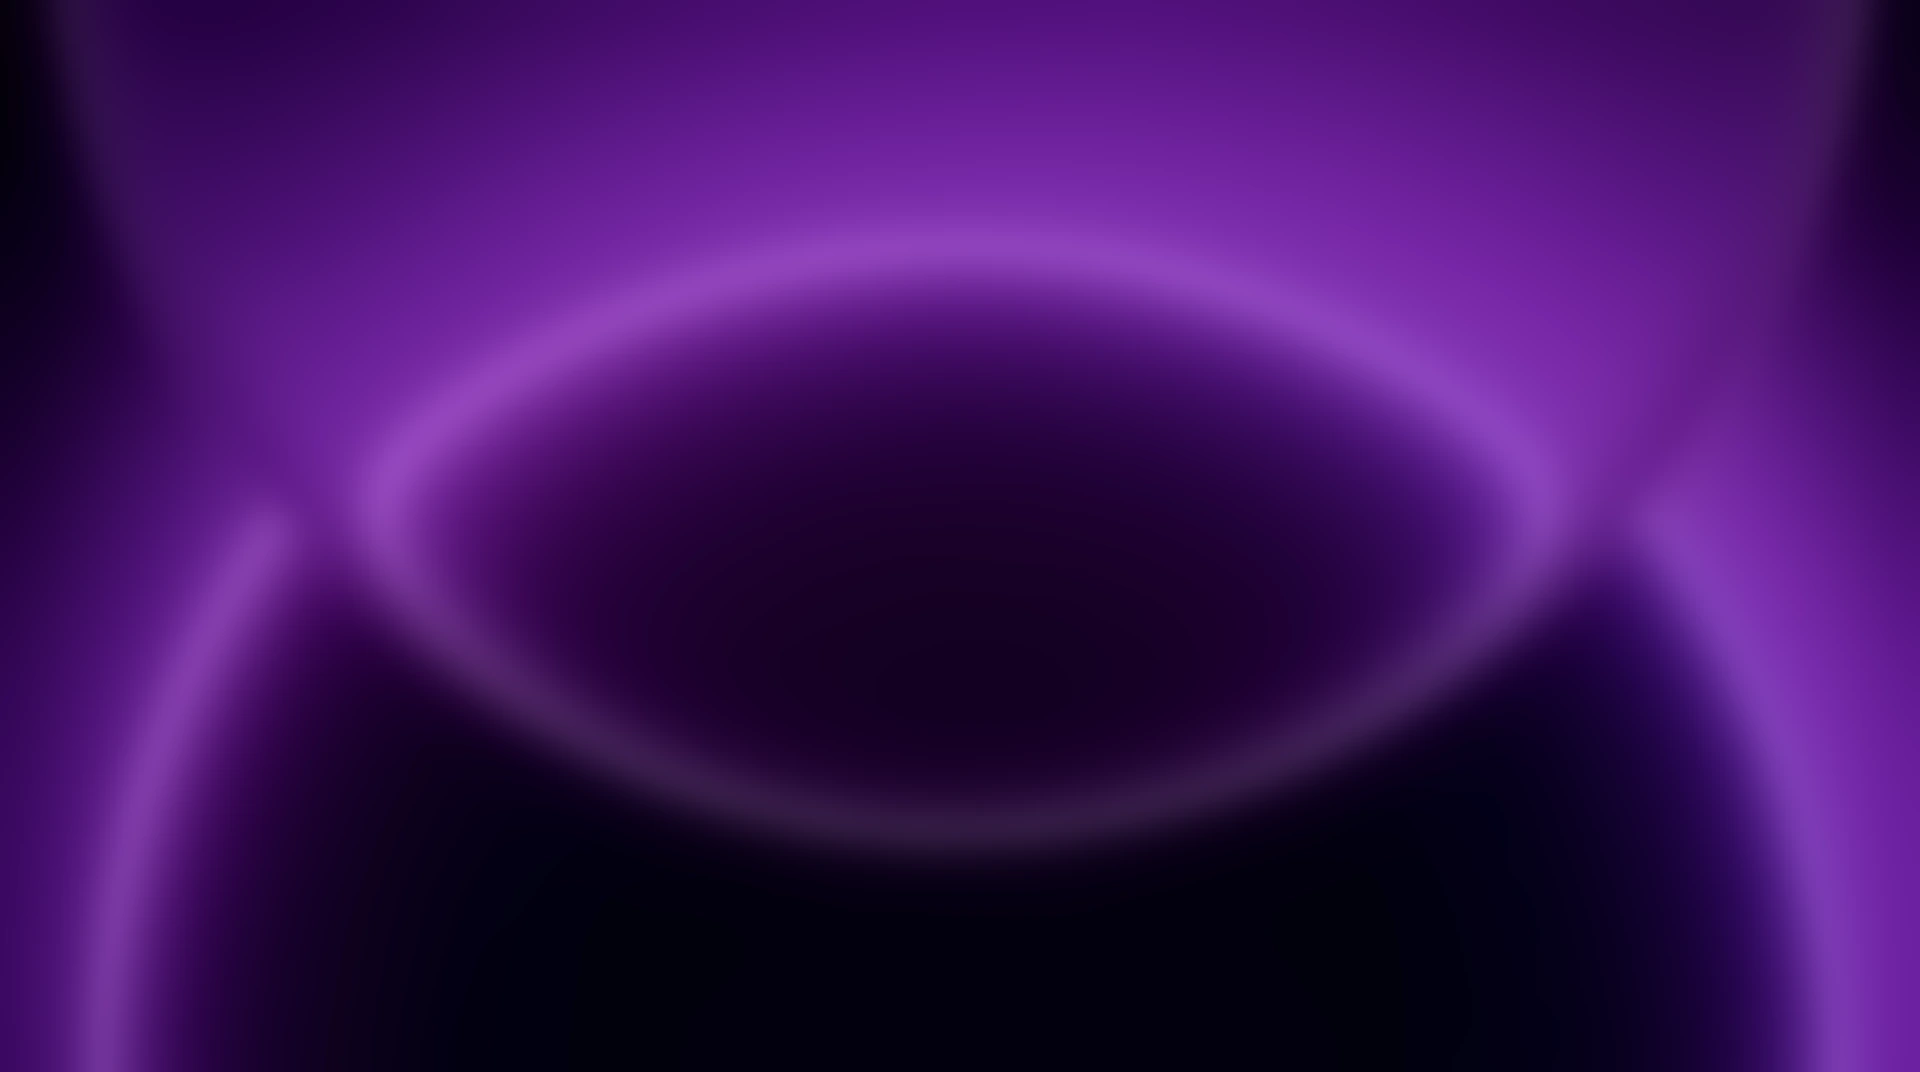
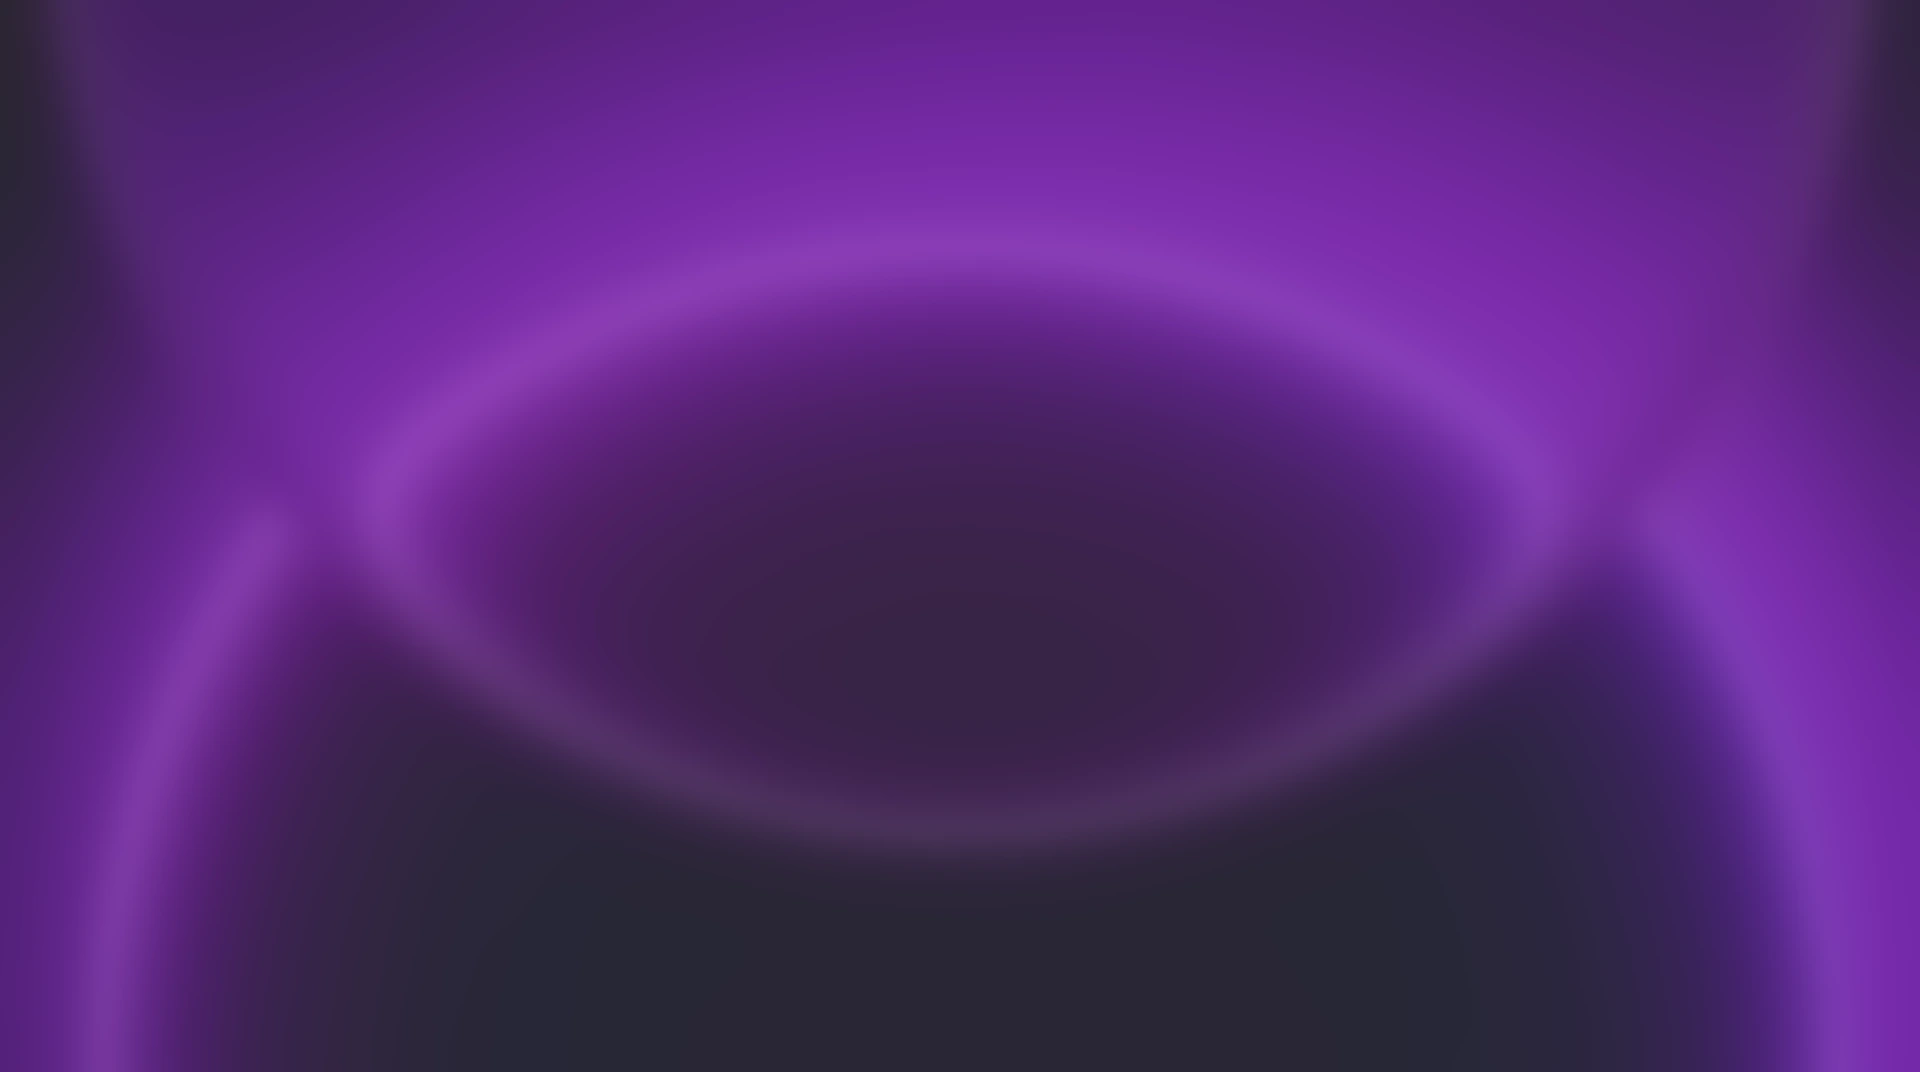
fix(ui): reduz a amplificacao do vidro e o contraste do wallpaper (fim da tarja)
Segunda causa, encontrada depois que suavizar o wallpaper sozinho nao
bastou. Reproduzido e medido na mesma bancada isolada.

O blur tirou a BORDA dura da forma do wallpaper, mas nao a AMPLITUDE
claro-escuro dela (blur nao mexe em variacao de baixa frequencia). E a
receita do vidro AMPLIFICA o que esta atras: saturate(180%) brightness(1.12).
Resultado: num card grande, ou numa grade de cards, um lado saia nitidamente
mais claro que o outro — os 5 chips do "Funil de Prospeccao" com brilhos
diferentes entre si, o card do YoY com faixa atravessando, o painel do
calendario claro em cima e escuro embaixo.

Duas correcoes que se somam:
- vidro: saturate 180%->130%, brightness 1.12->1.05 (.liquid-glass,
  aninhado, .dc-single, .status-card, .liquid-glass-ghost). Mantem o
  material de vidro sem exagerar o fundo.
- wallpaper: alem do blur, contraste comprimido pra 55%. Menos faixa
  dinamica pro vidro amplificar.

Nao mexi no blur/saturate de dropdown, modal e botao: sao pequenos e
aparecem um por vez, nao formam banda.

diff --git a/src/index.css b/src/index.css
@@ -217,8 +217,8 @@ button:focus-visible,
   /* Liquid glass sem fundo — mantém bordas e efeitos do glass mas totalmente transparente */
   .liquid-glass-ghost {
     background: transparent !important;
-    backdrop-filter: blur(10px) brightness(1.1) !important;
-    -webkit-backdrop-filter: blur(10px) brightness(1.1) !important;
+    backdrop-filter: blur(10px) brightness(1.04) !important;
+    -webkit-backdrop-filter: blur(10px) brightness(1.04) !important;
     border: 1px solid rgba(255, 255, 255, 0.08) !important;
     border-top: 1px solid rgba(255, 255, 255, 0.15) !important;
     box-shadow:
@@ -306,8 +306,13 @@ button:focus-visible,
   .liquid-glass {
     position: relative;
     background: rgba(28, 28, 34, 0.28) !important;
-    backdrop-filter: blur(20px) saturate(180%) brightness(1.12) !important;
-    -webkit-backdrop-filter: blur(20px) saturate(180%) brightness(1.12) !important;
+    /* saturate/brightness AMPLIFICAM o que está atrás. Com o wallpaper roxo,
+       180%/1.12 transformavam a variação claro-escuro dele numa faixa bem
+       visível atravessando os cards ("tarja"): num card grande, ou numa
+       grade de cards, um lado saía nitidamente mais claro que o outro.
+       130%/1.05 mantém o material de vidro sem exagerar o fundo. */
+    backdrop-filter: blur(20px) saturate(130%) brightness(1.05) !important;
+    -webkit-backdrop-filter: blur(20px) saturate(130%) brightness(1.05) !important;
     border: none !important;
     border-radius: 1.5rem;
     /* Promove CADA bloco de vidro pra sua PRÓPRIA camada de composição
@@ -344,8 +349,8 @@ button:focus-visible,
   /* Elementos liquid-glass aninhados: mesmo material, bevel mais suave */
   .liquid-glass .liquid-glass {
     background: rgba(28, 28, 34, 0.26) !important;
-    backdrop-filter: blur(14px) saturate(170%) brightness(1.1) !important;
-    -webkit-backdrop-filter: blur(14px) saturate(170%) brightness(1.1) !important;
+    backdrop-filter: blur(14px) saturate(125%) brightness(1.04) !important;
+    -webkit-backdrop-filter: blur(14px) saturate(125%) brightness(1.04) !important;
     border: none !important;
     box-shadow:
       inset 0 0 0 1px rgba(255, 255, 255, 0.06),
@@ -419,8 +424,8 @@ button:focus-visible,
   .dc-single {
     position: relative;
     background: rgba(28, 28, 34, 0.28);
-    backdrop-filter: blur(20px) saturate(180%) brightness(1.12);
-    -webkit-backdrop-filter: blur(20px) saturate(180%) brightness(1.12);
+    backdrop-filter: blur(20px) saturate(130%) brightness(1.05);
+    -webkit-backdrop-filter: blur(20px) saturate(130%) brightness(1.05);
     /* Mesma isolação de camada do .liquid-glass — ver comentário lá.
        Sem isso, os cards do topo do Dashboard "piscam" uma tarja clara
        quando o mouse passa pelo header logo acima. */
@@ -539,8 +544,8 @@ button:focus-visible,
   .status-card {
     position: relative;
     background-color: rgba(255, 255, 255, 0.05);
-    backdrop-filter: blur(20px) saturate(180%) brightness(1.12);
-    -webkit-backdrop-filter: blur(20px) saturate(180%) brightness(1.12);
+    backdrop-filter: blur(20px) saturate(130%) brightness(1.05);
+    -webkit-backdrop-filter: blur(20px) saturate(130%) brightness(1.05);
     box-shadow:
       inset 0 0 0 1px rgba(255, 255, 255, 0.08),
       inset 1.8px 3px 2px -2px rgba(255, 255, 255, 0.35),
